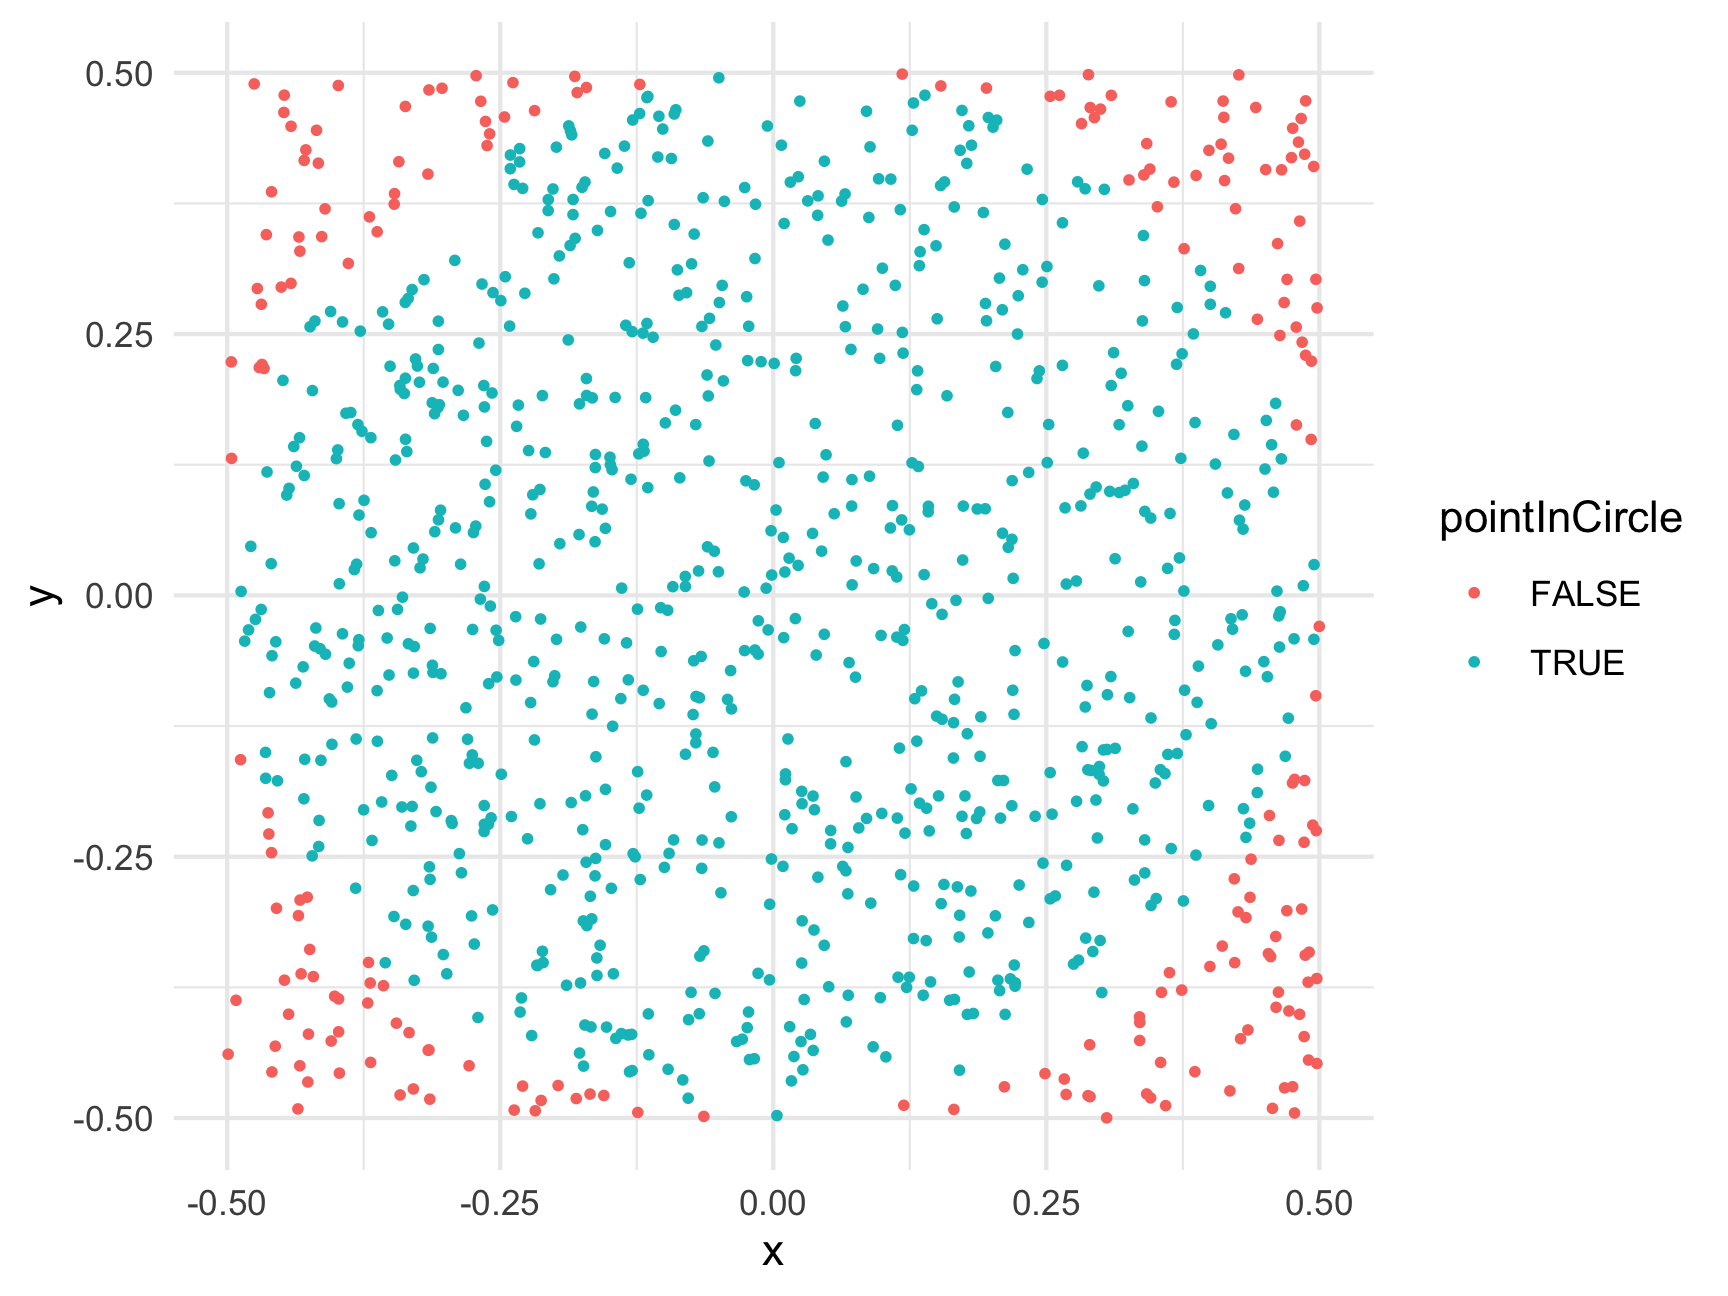
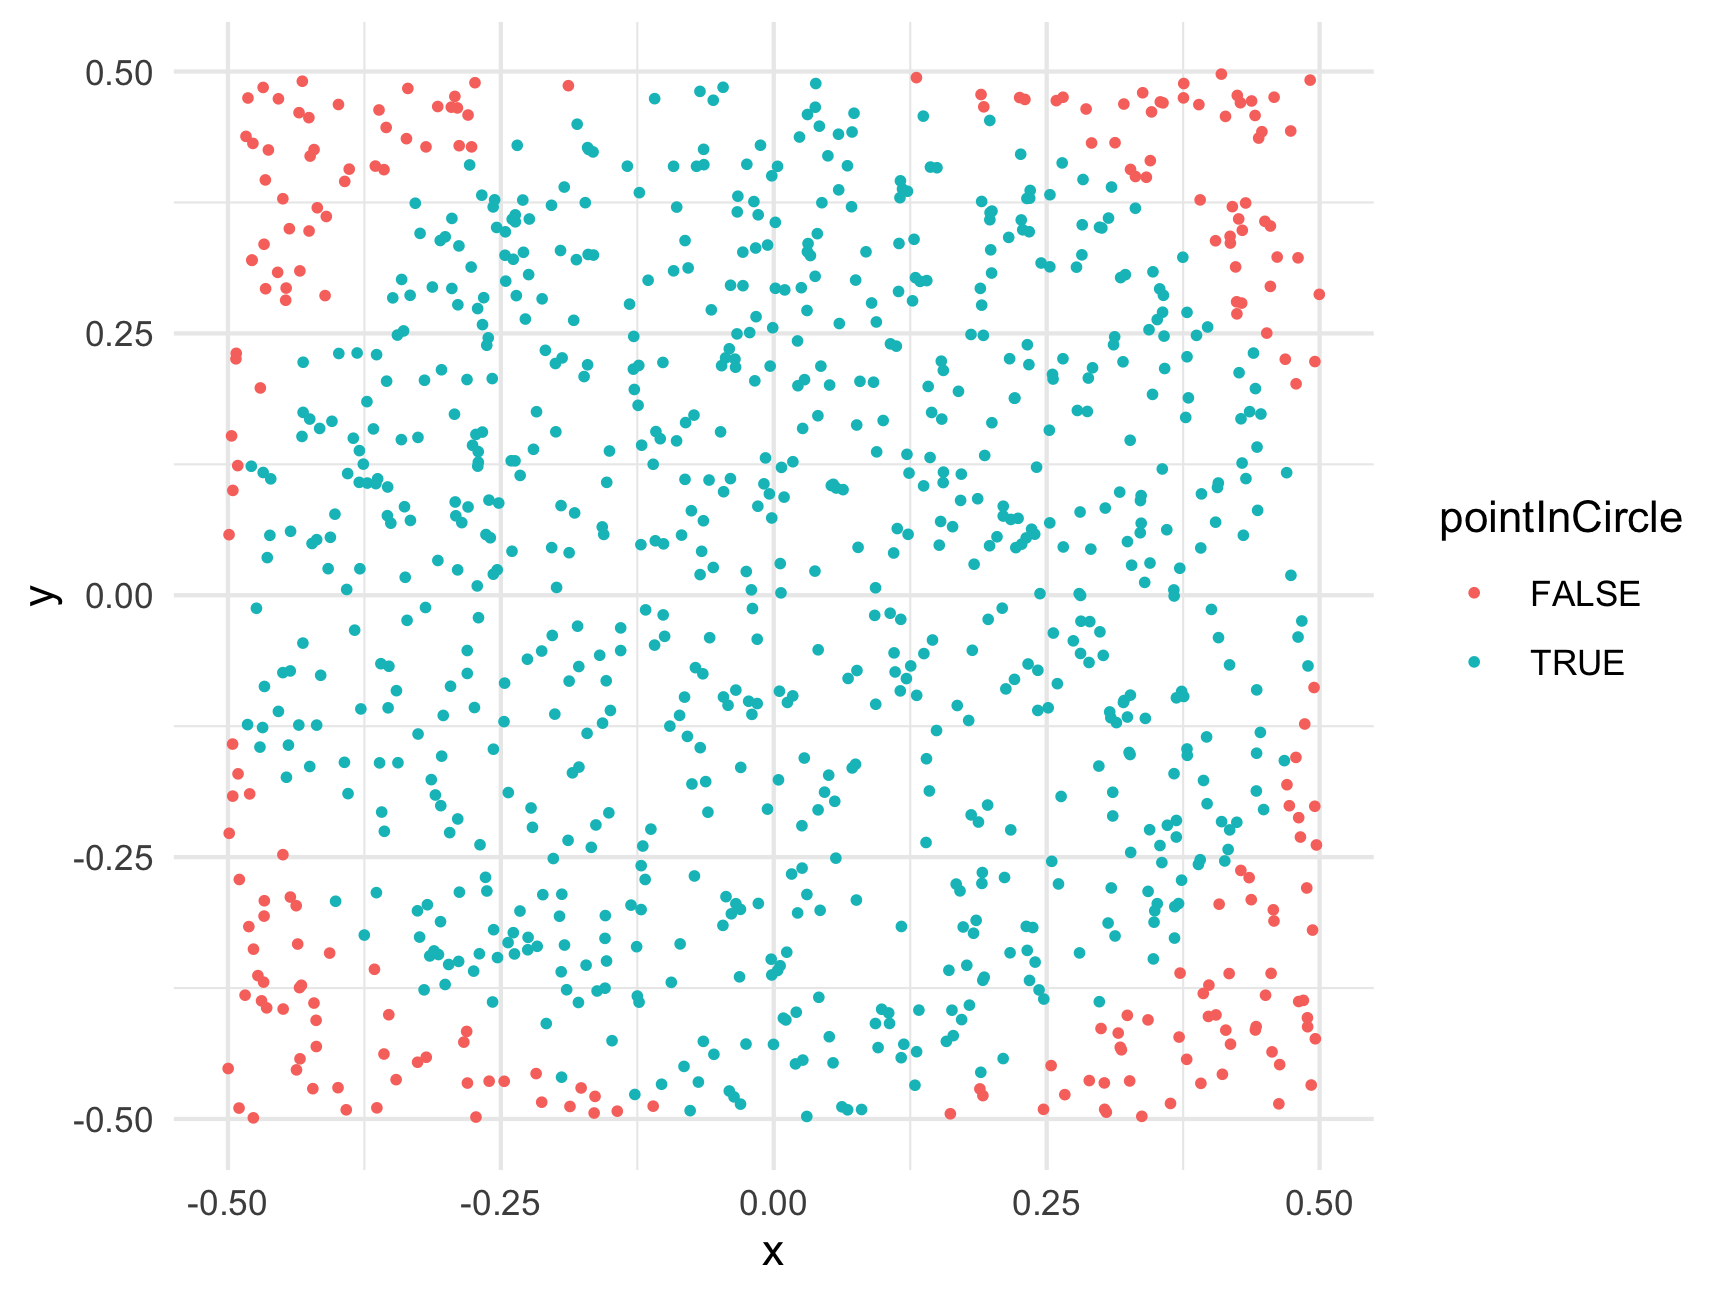
Deploying to gh-pages from  @ c929025d4044187e5991985f19d7e3044b20459a 🚀

Changed region(s): [[0.125, 0.0617, 0.7812, 0.8642], [0.125, 0.463, 0.1562, 0.4938], [0.0625, 0.2469, 0.0938, 0.2778]]

diff --git a/r13-monte-carlo-methods.html b/r13-monte-carlo-methods.html
@@ -766,11 +766,11 @@ ratio &lt;- sum(belowCurve) / numTrials
 totalArea &lt;- (7 - 3) * 7^2 # Rectangle length x height = 196
 areaUnderCurve &lt;- ratio * totalArea
 areaUnderCurve</code></pre>
-<pre><code>#&gt; [1] 104.9854</code></pre>
-<p>So, using Monte Carlo simulation with 100,000 points, we estimate that the area under the curve is 104.98544. How’d we do? Well, if you’re familiar with calculus, the integral of <span class="math inline">\(f(x) = x^2\)</span> has a closed-form solution (<span class="math inline">\(\frac{x^3}{3} + C\)</span>), so we can check our estimate against the pure-math solution:</p>
+<pre><code>#&gt; [1] 105.2422</code></pre>
+<p>So, using Monte Carlo simulation with 100,000 points, we estimate that the area under the curve is 105.2422. How’d we do? Well, if you’re familiar with calculus, the integral of <span class="math inline">\(f(x) = x^2\)</span> has a closed-form solution (<span class="math inline">\(\frac{x^3}{3} + C\)</span>), so we can check our estimate against the pure-math solution:</p>
 <p><span class="math display">\[\int_{3}^{7} x^2 \mathrm{dx} = \left ( \frac{x^3}{3} \right ) \Big|_3^7 = \frac{7^3}{3} - \frac{3^3}{3} = 105.33\bar{3}\]</span></p>
-<p>So our estimate error is: <code>105.333 -</code> <code>104.98544</code> <code>=</code> <code>0.3478933</code>.</p>
-<p>That’s an error of just 0.33 % - not bad!</p>
+<p>So our estimate error is: <code>105.333 -</code> <code>105.2422</code> <code>=</code> <code>0.0911333</code>.</p>
+<p>That’s an error of just 0.09 % - not bad!</p>
 <hr />
 </div>
 <div id="monte-carlo-pi" class="section level1">
@@ -800,13 +800,13 @@ points &lt;- data.frame(
     x = runif(numTrials, -0.5, 0.5),
     y = runif(numTrials, -0.5, 0.5))
 head(points)</code></pre>
-<pre><code>#&gt;            x            y
-#&gt; 1 -0.3294610 -0.074380045
-#&gt; 2  0.1428084 -0.225318437
-#&gt; 3  0.2996282  0.465224543
-#&gt; 4 -0.4625579 -0.208043883
-#&gt; 5  0.3759533  0.004202641
-#&gt; 6 -0.2666783  0.297870151</code></pre>
+<pre><code>#&gt;            x           y
+#&gt; 1 -0.1594484 -0.05728694
+#&gt; 2 -0.1800930  0.44971816
+#&gt; 3 -0.1249860 -0.38263930
+#&gt; 4  0.4961012 -0.42342260
+#&gt; 5  0.3428914 -0.28271241
+#&gt; 6 -0.4766056 -0.33787199</code></pre>
 <p>For this example, we’re putting the points in a data frame to make it easier to work with. Now that we have random x and y points, let’s compute the radius to each point (the distance from <code>(x, y) = (0, 0)</code>) so we can determine which points fall inside the circle (which has a radius of 0.5):</p>
 <pre class="r"><code>library(dplyr)
 points &lt;- points %&gt;%
@@ -823,9 +823,9 @@ ggplot(points) +
 <pre class="r"><code>ratio &lt;- sum(points$pointInCircle) / nrow(points)
 piApprox &lt;- 4 * ratio
 piApprox</code></pre>
-<pre><code>#&gt; [1] 3.16</code></pre>
-<p>So our estimate error is: <code>3.1415 -</code> <code>3.16</code> <code>=</code> <code>0.0184073</code>.</p>
-<p>That’s an error of just 0.59 % - not bad for only 1,000 points!</p>
+<pre><code>#&gt; [1] 3.108</code></pre>
+<p>So our estimate error is: <code>3.1415 -</code> <code>3.108</code> <code>=</code> <code>-0.0335927</code>.</p>
+<p>That’s an error of just 1.07 % - not bad for only 1,000 points!</p>
 <p>To get an even better estimate of <span class="math inline">\(\pi\)</span>, we can increase N. Let’s see what we get with 100,000 trials:</p>
 <pre class="r"><code>numTrials &lt;- 100000
 points &lt;- data.frame(
@@ -837,13 +837,13 @@ points &lt;- data.frame(
 ratio &lt;- sum(points$pointInCircle) / nrow(points)
 piApprox &lt;- 4 * ratio
 piApprox</code></pre>
-<pre><code>#&gt; [1] 3.13756</code></pre>
+<pre><code>#&gt; [1] 3.14352</code></pre>
 <pre class="r"><code># Compute error:
 error &lt;- piApprox - pi
 percentError &lt;- round(100*abs(error / pi), 2)
 percentError</code></pre>
-<pre><code>#&gt; [1] 0.13</code></pre>
-<p>By increasing the number of trials from 1,000 to 100,000, we improved our estimate error from 0.59 % to 0.13 %!</p>
+<pre><code>#&gt; [1] 0.06</code></pre>
+<p>By increasing the number of trials from 1,000 to 100,000, we improved our estimate error from 1.07 % to 0.06 %!</p>
 <hr />
 <p><strong>Page sources</strong>:</p>
 <p>Some content on this page has been modified from other courses, including:</p>

diff --git a/r2-functions-packages.html b/r2-functions-packages.html
@@ -724,7 +724,7 @@ div.tocify {
 <p>Here the letters <code>sqrt</code> are short for “square root,” and the value inside the <code>()</code> is the “argument” to the function. In the example above, the value <code>225</code> is the “argument”.</p>
 <p>Keep in mind that not all functions have (or require) arguments:</p>
 <pre class="r"><code>date() # Returns the current date and time</code></pre>
-<pre><code>#&gt; [1] &quot;Fri Dec 31 19:16:50 2021&quot;</code></pre>
+<pre><code>#&gt; [1] &quot;Fri Dec 31 19:20:26 2021&quot;</code></pre>
 <p>(the date above is the date this page was last built)</p>
 <div id="multiple-arguments" class="section level2">
 <h2>Multiple arguments</h2>
@@ -942,9 +942,9 @@ library(packagename)   # This also works</code></pre>
 <p>Now that you have the package installed on your computer, try loading it using <code>library(wikifacts)</code>, then trying using some of it’s functions:</p>
 <pre class="r"><code>library(wikifacts) # Load the library</code></pre>
 <pre class="r"><code>wiki_randomfact()</code></pre>
-<pre><code>#&gt; [1] &quot;Did you know that on August 11 in 3114 BC – The epoch of the Mesoamerican Long Count calendar, a non-repeating, vigesimal calendar used by the Maya civilization and several other Mesoamerican cultures, occurred. (Courtesy of Wikipedia)&quot;</code></pre>
+<pre><code>#&gt; [1] &quot;Here&#39;s some news from 29 August 2021. Ismail Sabri Yaakob is appointed as prime minister by the King of Malaysia. (Courtesy of Wikipedia)&quot;</code></pre>
 <pre class="r"><code>wiki_didyouknow()</code></pre>
-<pre><code>#&gt; [1] &quot;Did you know that Jesu, meine Freude (Jesus, my joy), a motet by Bach, has a complex symmetrical structure in which six hymn stanzas alternate with five Bible verses? (Courtesy of Wikipedia)&quot;</code></pre>
+<pre><code>#&gt; [1] &quot;Did you know that the US military refers to Death Valley&#39;s Rainbow Canyon as Star Wars Canyon? (Courtesy of Wikipedia)&quot;</code></pre>
 <p>In case you’re wondering, the only thing this package does is generate messages containing random facts from <a href="https://www.wikipedia.org/">Wikipedia</a>.</p>
 </div>
 <div id="using-only-some-package-functions" class="section level2">
@@ -955,7 +955,7 @@ library(packagename)   # This also works</code></pre>
 </blockquote>
 <p>Here I use the name of the <em>package</em> followed by <code>::</code> to tell R that I’m looking for a function that is in that package. For example, if I didn’t want to load the whole <strong>wikifacts</strong> library but still wanted to use the <code>wiki_randomfact()</code> function, I could do this:</p>
 <pre class="r"><code>wikifacts::wiki_randomfact()</code></pre>
-<pre><code>#&gt; [1] &quot;Here&#39;s some news from 11 May 2016. Mark Selby defeats Ding Junhui to win the World Snooker Championship. (Courtesy of Wikipedia)&quot;</code></pre>
+<pre><code>#&gt; [1] &quot;Did you know that Louis H. Fead, Chief Justice of the Michigan Supreme Court, was recognized for common sense opinions devoid of erudition? (Courtesy of Wikipedia)&quot;</code></pre>
 <p>Where this is particularly handy is when two packages have a function with the same name. If you load both library, R might not know which function to use. In those cases, it’s best to also provide the <strong>package</strong> name. For example, let’s say there was a package called <strong>apples</strong> and another called <strong>bananas</strong>, and each had a function named <code>fruitName()</code>. If I wanted to use each of them in my code, I would need to specify the package names like this:</p>
 <pre class="r"><code>apples::fruitName()
 bananas::fruitName()</code></pre>
